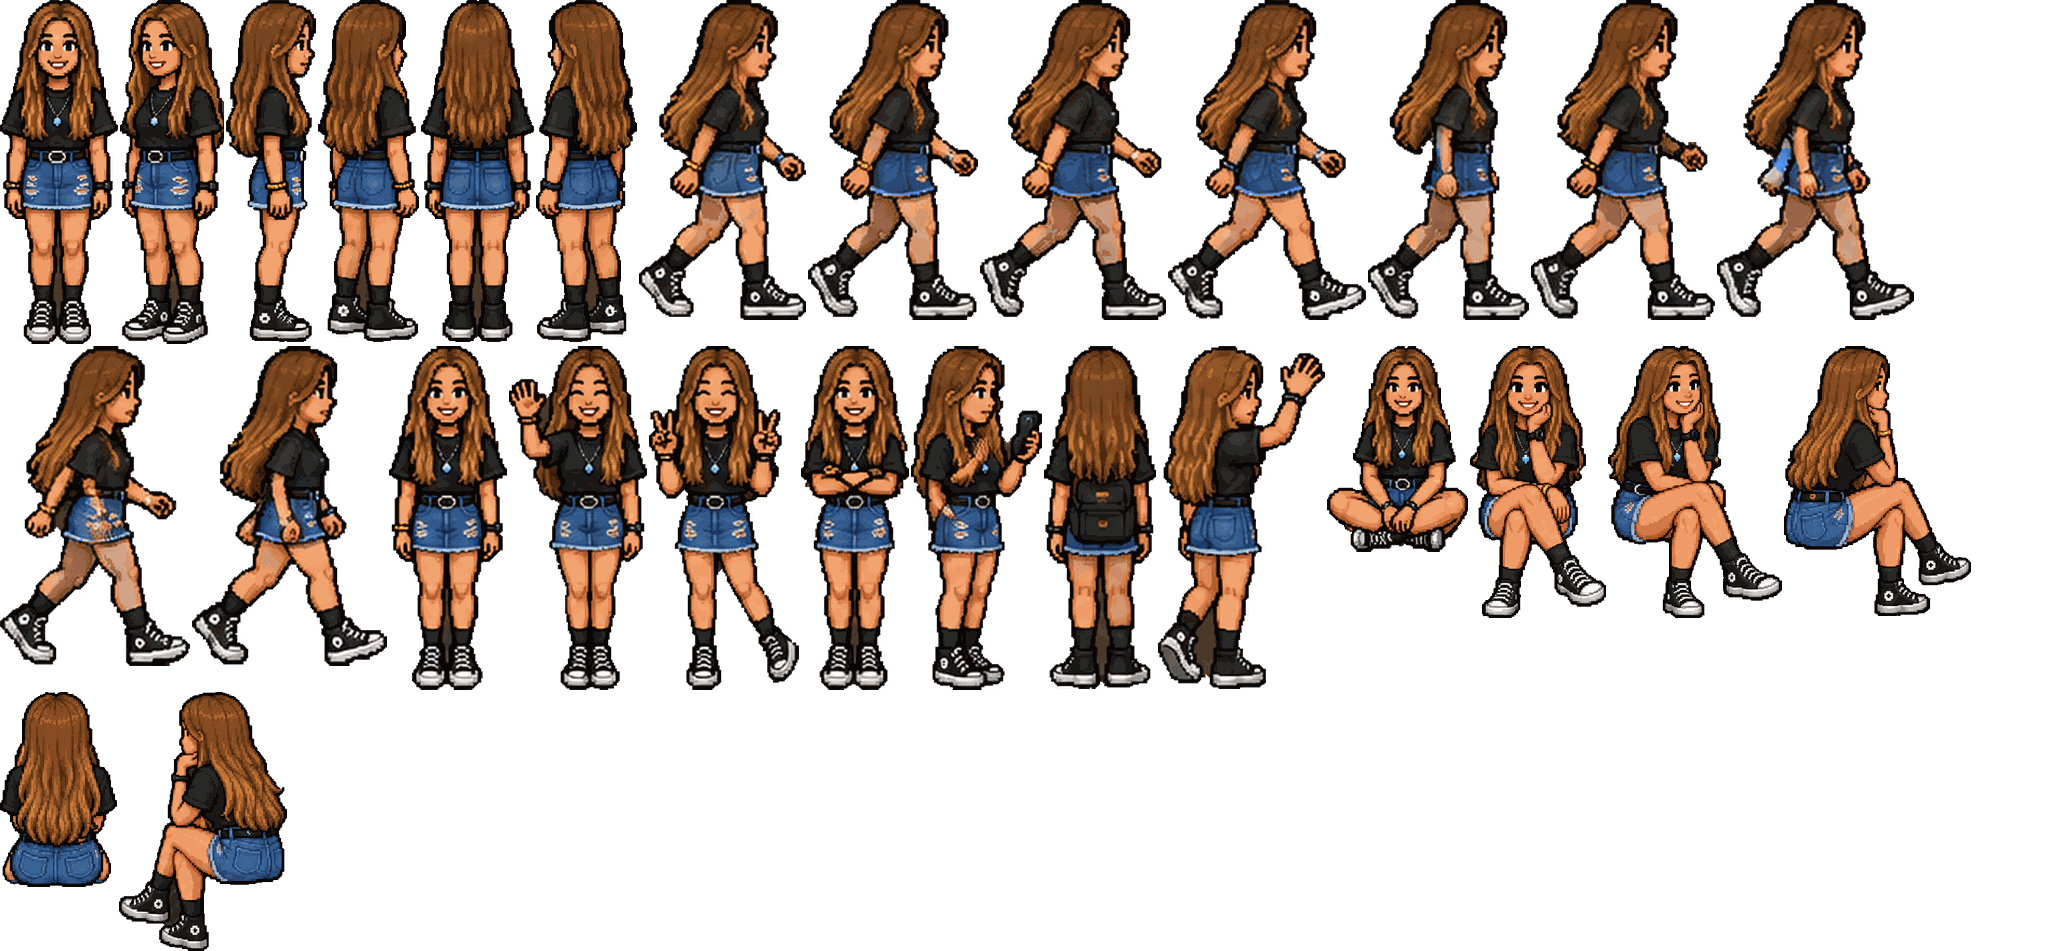
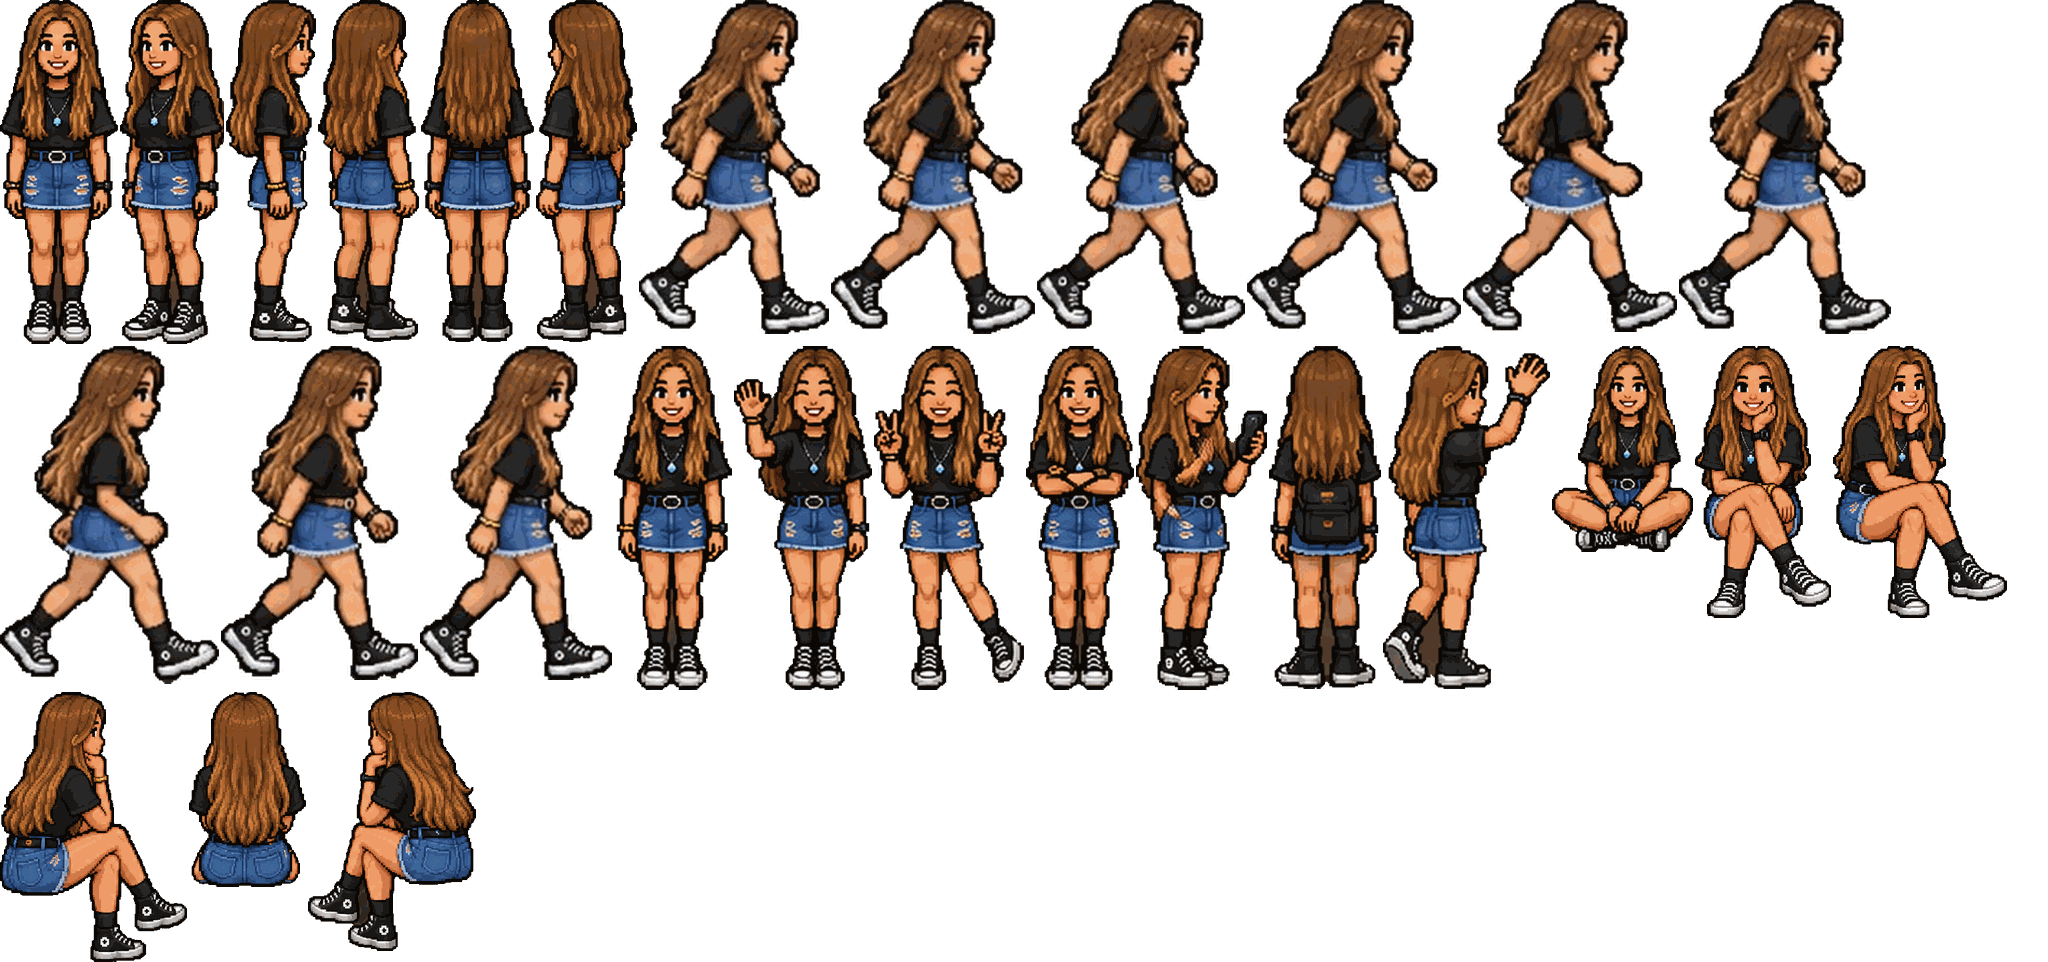
Swap in the new walk cycle frames
Replace her 9 walk frames in assets/her.png with the new walk cycle art
and update the frame table to match.

Claude-Session: https://claude.ai/code/session_01CYk3xYTLtQ9wMMS1b1SGUS

diff --git a/game.js b/game.js
@@ -524,28 +524,28 @@ const HER_FRAMES = {
   backRight: { r: [318, 0, 101, 342], ax: 54, ay: 342 },
   back: { r: [421, 0, 113, 342], ax: 56, ay: 342, hem: 210 },
   backLeft: { r: [536, 0, 101, 342], ax: 45, ay: 342 },
-  walk1: { r: [639, 0, 167, 320], ax: 88, ay: 320 },
-  walk2: { r: [808, 0, 170, 320], ax: 89, ay: 320 },
-  walk3: { r: [980, 0, 186, 320], ax: 98, ay: 320 },
-  walk4: { r: [1168, 0, 198, 320], ax: 105, ay: 320 },
-  walk5: { r: [1368, 0, 161, 320], ax: 85, ay: 320 },
-  walk6: { r: [1531, 0, 184, 320], ax: 96, ay: 320 },
-  walk7: { r: [1717, 0, 197, 320], ax: 102, ay: 320 },
-  walk8: { r: [0, 346, 190, 320], ax: 101, ay: 320 },
-  walk9: { r: [192, 346, 195, 320], ax: 104, ay: 320 },
-  idle: { r: [389, 346, 118, 344], ax: 58, ay: 344 },
-  happy: { r: [509, 346, 138, 344], ax: 81, ay: 344 },
-  peace: { r: [649, 346, 150, 344], ax: 92, ay: 344 },
-  armsCrossed: { r: [801, 346, 108, 344], ax: 52, ay: 344 },
-  phone: { r: [911, 346, 131, 344], ax: 57, ay: 344 },
-  backpack: { r: [1044, 346, 112, 343], ax: 55, ay: 343 },
-  wave: { r: [1158, 346, 167, 343], ax: 56, ay: 343 },
-  floorSit: { r: [1327, 346, 141, 206], ax: 74, ay: 206 },
-  couchFront: { r: [1470, 346, 136, 272], ax: 58, ay: 188 },
-  couchFrontRight: { r: [1608, 346, 174, 272], ax: 24, ay: 194 },
-  couchRight: { r: [1784, 346, 187, 270], ax: 33, ay: 199 },
-  couchBack: { r: [0, 692, 117, 195], ax: 56, ay: 190 },
-  couchBackLeft: { r: [119, 692, 168, 259], ax: 127, ay: 188 },
+  walk1: { r: [639, 0, 190, 334], ax: 101, ay: 334 },
+  walk2: { r: [831, 0, 204, 334], ax: 108, ay: 334 },
+  walk3: { r: [1037, 0, 208, 334], ax: 110, ay: 334 },
+  walk4: { r: [1247, 0, 214, 334], ax: 113, ay: 334 },
+  walk5: { r: [1463, 0, 214, 332], ax: 109, ay: 332 },
+  walk6: { r: [1679, 0, 212, 334], ax: 112, ay: 334 },
+  walk7: { r: [0, 346, 219, 338], ax: 115, ay: 338 },
+  walk8: { r: [221, 346, 197, 334], ax: 104, ay: 334 },
+  walk9: { r: [420, 346, 192, 334], ax: 101, ay: 334 },
+  idle: { r: [614, 346, 118, 344], ax: 58, ay: 344 },
+  happy: { r: [734, 346, 138, 344], ax: 81, ay: 344 },
+  peace: { r: [874, 346, 150, 344], ax: 92, ay: 344 },
+  armsCrossed: { r: [1026, 346, 108, 344], ax: 52, ay: 344 },
+  phone: { r: [1136, 346, 131, 344], ax: 57, ay: 344 },
+  backpack: { r: [1269, 346, 112, 343], ax: 55, ay: 343 },
+  wave: { r: [1383, 346, 167, 343], ax: 56, ay: 343 },
+  floorSit: { r: [1552, 346, 141, 206], ax: 74, ay: 206 },
+  couchFront: { r: [1695, 346, 136, 272], ax: 58, ay: 188 },
+  couchFrontRight: { r: [1833, 346, 174, 272], ax: 24, ay: 194 },
+  couchRight: { r: [0, 692, 187, 270], ax: 33, ay: 199 },
+  couchBack: { r: [189, 692, 117, 195], ax: 56, ay: 190 },
+  couchBackLeft: { r: [308, 692, 168, 259], ax: 127, ay: 188 },
 };
 const HER_WALK = ['walk1', 'walk2', 'walk3', 'walk4', 'walk5', 'walk6', 'walk7', 'walk8', 'walk9'];
 const HER_STEP = 10; // map px travelled per walk frame
